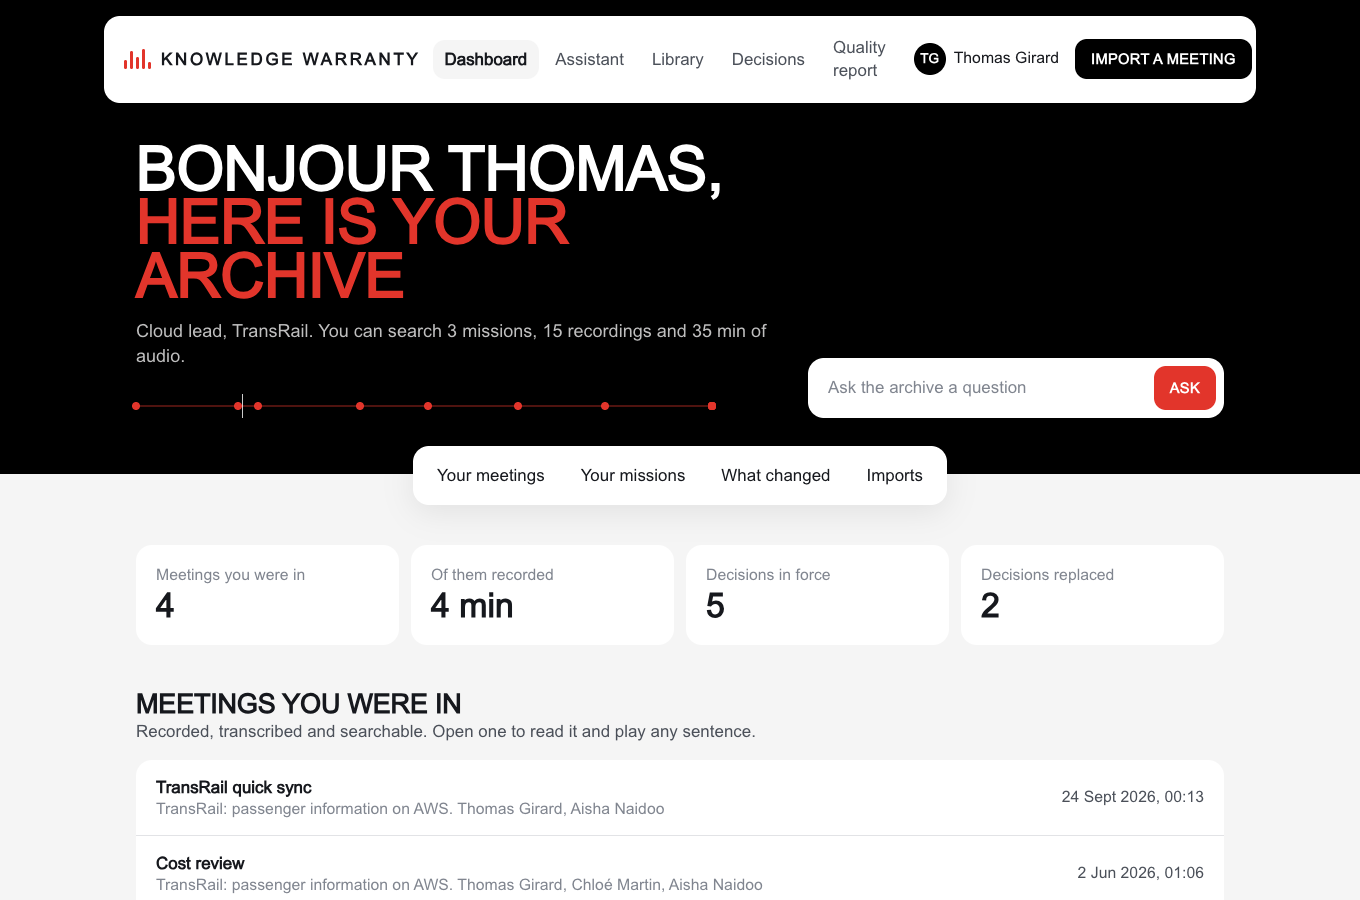
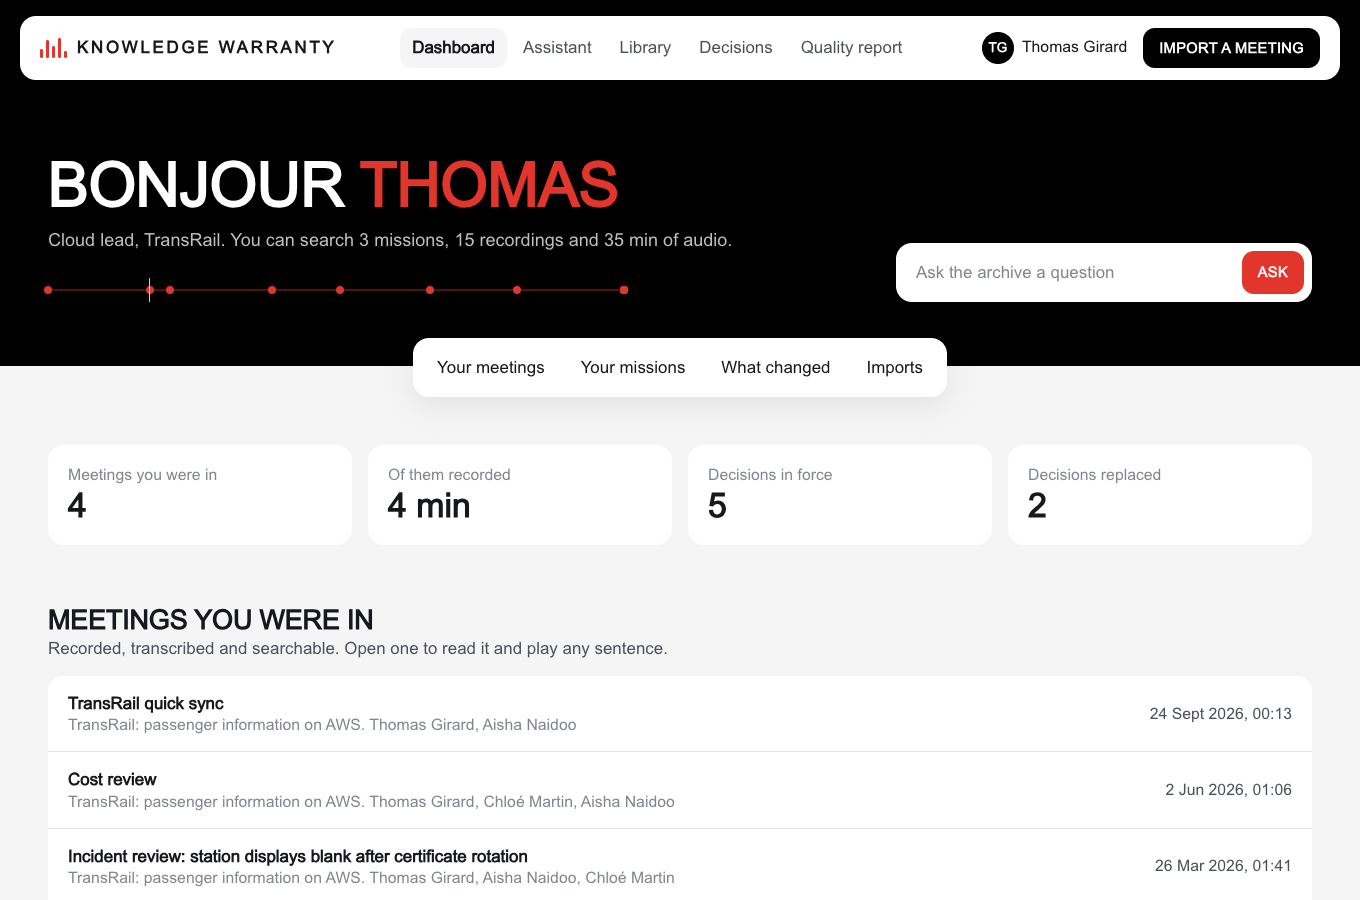
Wider, calmer layout and plainer copy
- Pages and navbar go up to 1440 px with larger side padding; forms at
  6xl, the assistant and transcripts at 5xl for reading.
- More space between dashboard sections; missions in 3 columns on wide
  screens; 'Quality report' no longer wraps in the navbar.
- Shorter intros on Assistant, Decisions and Quality report; the
  dashboard greets 'Bonjour Thomas'.

diff --git a/platform/app/page.tsx b/platform/app/page.tsx
@@ -59,8 +59,8 @@ export default async function DashboardPage() {
 
   return (
     <Page
-      title={`Bonjour ${firstName},`}
-      accent="here is your archive"
+      title="Bonjour"
+      accent={firstName}
       intro={
         <>
           <p>
@@ -84,7 +84,7 @@ export default async function DashboardPage() {
         />
       }
     >
-      <dl className="grid gap-3 sm:grid-cols-4">
+      <dl className="grid gap-4 sm:grid-cols-4">
         {[
           ["Meetings you were in", String(attended.length)],
           ["Of them recorded", formatDuration(attendedSeconds)],
@@ -98,7 +98,7 @@ export default async function DashboardPage() {
         ))}
       </dl>
 
-      <section id="attended" className="mt-12 scroll-mt-28">
+      <section id="attended" className="mt-16 scroll-mt-28">
         <h2 className="display text-2xl">Meetings you were in</h2>
         <p className="mt-1 text-ink-soft">Recorded, transcribed and searchable. Open one to read it and play any sentence.</p>
         {attended.length > 0 ? (
@@ -120,9 +120,9 @@ export default async function DashboardPage() {
         )}
       </section>
 
-      <section id="missions" className="mt-12 scroll-mt-28">
+      <section id="missions" className="mt-16 scroll-mt-28">
         <h2 className="display text-2xl">Your missions</h2>
-        <ul className="mt-4 grid gap-3 md:grid-cols-2">
+        <ul className="mt-5 grid gap-4 md:grid-cols-2 xl:grid-cols-3">
           {missions.map((m) => {
             const recs = mine.filter((r) => r.mission === m.id).sort((a, b) => b.date.localeCompare(a.date));
             return (
@@ -146,13 +146,13 @@ export default async function DashboardPage() {
         </ul>
       </section>
 
-      <section id="changes" className="mt-12 scroll-mt-28">
+      <section id="changes" className="mt-16 scroll-mt-28">
         <h2 className="display text-2xl">What changed</h2>
         <p className="mt-1 text-ink-soft">Decisions a later meeting replaced, in your missions. The old answer is kept as history.</p>
         {changes.length === 0 ? (
           <p className="mt-4 rounded-2xl bg-surface p-5 text-ink-soft">No decision has been replaced in your missions.</p>
         ) : (
-          <ul className="mt-4 grid gap-3 md:grid-cols-2">
+          <ul className="mt-5 grid gap-4 md:grid-cols-2">
             {changes.map((d) => {
               const old = byId.get(d.supersedes[0]);
               return (
@@ -175,7 +175,7 @@ export default async function DashboardPage() {
         )}
       </section>
 
-      <section id="imports" className="mt-12 scroll-mt-28">
+      <section id="imports" className="mt-16 scroll-mt-28">
         <div className="flex flex-wrap items-baseline justify-between gap-2">
           <h2 className="display text-2xl">Imports</h2>
           <Link href="/import" className="text-sm font-semibold underline underline-offset-4">

diff --git a/platform/components/Page.tsx b/platform/components/Page.tsx
@@ -9,7 +9,7 @@ export function Page({
   aside,
   overlap,
   children,
-  width = "max-w-6xl",
+  width = "max-w-[1440px]",
 }: {
   title: string;
   accent?: string;
@@ -21,10 +21,10 @@ export function Page({
 }) {
   return (
     <>
-      <section className="bg-night pb-14 pt-32 text-white sm:pt-36">
-        <div className={`mx-auto ${width} px-5 sm:px-8`}>
+      <section className="bg-night pb-16 pt-32 text-white sm:pt-40">
+        <div className={`mx-auto ${width} px-5 sm:px-8 lg:px-12`}>
           <div className="flex flex-col gap-8 lg:flex-row lg:items-end lg:justify-between">
-            <div className="max-w-3xl">
+            <div className="max-w-4xl">
               <h1 className="display text-[2.4rem] sm:text-[3.4rem]">
                 {title}
                 {accent && (
@@ -34,18 +34,18 @@ export function Page({
                   </>
                 )}
               </h1>
-              {intro && <div className="mt-4 max-w-2xl text-[16px] text-white/75">{intro}</div>}
+              {intro && <div className="mt-4 max-w-3xl text-[16px] text-white/75">{intro}</div>}
             </div>
             {aside && <div className="shrink-0">{aside}</div>}
           </div>
         </div>
       </section>
       {overlap && (
-        <div className={`relative z-10 mx-auto -mt-7 ${width} px-5 sm:px-8`}>
+        <div className={`relative z-10 mx-auto -mt-7 ${width} px-5 sm:px-8 lg:px-12`}>
           {overlap}
         </div>
       )}
-      <div className={`mx-auto ${width} px-5 pb-20 pt-10 sm:px-8`}>{children}</div>
+      <div className={`mx-auto ${width} px-5 pb-24 pt-12 sm:px-8 lg:px-12`}>{children}</div>
     </>
   );
 }

diff --git a/platform/components/SiteNav.tsx b/platform/components/SiteNav.tsx
@@ -37,7 +37,7 @@ export function SiteNav({ name, email }: { name: string; email: string }) {
 
   return (
     <header className="fixed inset-x-0 top-0 z-40 px-3 pt-3 sm:px-5 sm:pt-4">
-      <div className="mx-auto flex max-w-6xl items-center gap-3 rounded-2xl bg-surface px-4 py-3 shadow-[0_8px_30px_rgba(0,0,0,0.12)] sm:px-5">
+      <div className="mx-auto flex max-w-[1440px] items-center gap-3 rounded-2xl bg-surface px-4 py-3 shadow-[0_8px_30px_rgba(0,0,0,0.12)] sm:px-5">
         <Link href="/" className="shrink-0">
           <Logo />
         </Link>
@@ -47,7 +47,7 @@ export function SiteNav({ name, email }: { name: string; email: string }) {
               key={l.href}
               href={l.href}
               aria-current={active(l.href) ? "page" : undefined}
-              className={`rounded-xl px-3 py-2 text-[15px] ${active(l.href) ? "bg-paper font-semibold text-ink" : "text-ink-soft hover:text-ink"}`}
+              className={`whitespace-nowrap rounded-xl px-3 py-2 text-[15px] ${active(l.href) ? "bg-paper font-semibold text-ink" : "text-ink-soft hover:text-ink"}`}
             >
               {l.label}
             </Link>

diff --git a/platform/app/decisions/page.tsx b/platform/app/decisions/page.tsx
@@ -22,7 +22,7 @@ export default async function DecisionsPage() {
   );
 
   return (
-    <Page title="Decision" accent="register" width="max-w-4xl" intro={<>Decisions found in the recordings, per mission. When a later meeting explicitly changed a decision, the new one is current and the old one stays here as history. A later meeting that only repeats a decision confirms it; it does not replace it.</>}>
+    <Page title="Decision" accent="register" width="max-w-6xl" intro={<>Decisions found in the recordings, per mission. When a later meeting changes a decision, the new one is current and the old one stays as history. A meeting that only repeats a decision confirms it.</>}>
       <p className="mt-2 text-sm text-ink-faint">
         Found automatically with language cues in English and French and meaning similarity. Each entry links to the moment it was said, so anyone can check it.
       </p>

diff --git a/platform/app/settings/page.tsx b/platform/app/settings/page.tsx
@@ -8,7 +8,7 @@ export default function SettingsPage() {
   const field = "mt-1 w-full rounded-md border border-line bg-surface px-3 py-2";
 
   return (
-    <Page title="Settings" width="max-w-4xl" intro={<>Choose who writes the answers. Without a model, answers are exact quotes from the recordings, which cannot invent anything. With a model, answers read more naturally and every sentence is still checked against its source.</>}>
+    <Page title="Settings" width="max-w-6xl" intro={<>Choose who writes the answers. Without a model, answers are exact quotes from the recordings, which cannot invent anything. With a model, answers read more naturally and every sentence is still checked against its source.</>}>
 
       <form action={saveModelSettings} className="mt-8 space-y-6 rounded-xl border border-line bg-surface p-5">
         <fieldset>

diff --git a/platform/app/review/page.tsx b/platform/app/review/page.tsx
@@ -40,7 +40,7 @@ export default async function ReviewPage() {
     .filter((x) => x.reasons.length > 0);
 
   return (
-    <Page title="Transcript" accent="review" width="max-w-4xl" intro={<>Sentences worth a human look. Listen, correct the text, save. Corrections are used the next time the index is built (<code>npm run index</code>), and the audio always stays the reference.</>}>
+    <Page title="Transcript" accent="review" width="max-w-6xl" intro={<>Sentences worth a human look. Listen, correct the text, save. Corrections are used the next time the index is built (<code>npm run index</code>), and the audio always stays the reference.</>}>
       <p className="mt-2 text-sm text-ink-faint">{queue.length} sentences to review in your missions, {corrections.length} corrections saved.</p>
 
       <ul className="mt-6 space-y-4">

diff --git a/platform/app/evaluation/page.tsx b/platform/app/evaluation/page.tsx
@@ -196,7 +196,7 @@ export default function EvaluationPage() {
   const demoExpected = expected.get(DEMO_FAILURE.id);
 
   return (
-    <Page title="Quality" accent="report" width="max-w-5xl" intro={<>The 50 test questions from our reverse brief, written before tuning, scored pass or fail. Failures are listed with the reason. Thresholds were set on half of the questions only; the other half shows how the system does on questions it was not tuned on.</>}>
+    <Page title="Quality" accent="report" intro={<>50 test questions from our reverse brief, written before any tuning. Thresholds were set on half of them; the other half shows how the system does on questions it never saw.</>}>
 
       <div className="mt-8 grid gap-4 lg:grid-cols-2">
         <Scorecard r={quote} title="Quote mode (no language model)" />

diff --git a/platform/app/value/page.tsx b/platform/app/value/page.tsx
@@ -9,7 +9,7 @@ export default function ValuePage() {
   const rtf = report?.asr.realtimeFactor ?? 10;
 
   return (
-    <Page title="Value and" accent="cost" width="max-w-5xl" intro={<>The business case from our reverse brief, as a calculator. One hour of Synchrone is valued at revenue divided by staff and by the French reference of 1,607 hours a year: €139M / 1,500 / 1,607 = €57.7. It is not a salary, only a way to price an hour.</>}>
+    <Page title="Value and" accent="cost" intro={<>The business case from our reverse brief, as a calculator. One hour of Synchrone is valued at revenue divided by staff and by the French reference of 1,607 hours a year: €139M / 1,500 / 1,607 = €57.7. It is not a salary, only a way to price an hour.</>}>
       <ValueCalculator />
 
       <section className="mt-12">

diff --git a/platform/app/digest/page.tsx b/platform/app/digest/page.tsx
@@ -27,7 +27,7 @@ export default async function DigestPage({ searchParams }: { searchParams: Promi
     .filter((x) => x.list.length > 0);
 
   return (
-    <Page title="Decision" accent="digest" width="max-w-4xl" intro={<>What was decided in your missions, and what it replaced. Ready to paste into a team email.</>}>
+    <Page title="Decision" accent="digest" width="max-w-6xl" intro={<>What was decided in your missions, and what it replaced. Ready to paste into a team email.</>}>
       <div className="mt-4 flex gap-2">
         {PERIODS.map((p) => (
           <Link key={p} href={`/digest?days=${p}`} aria-current={p === days ? "page" : undefined} className={`rounded-md border px-3 py-1.5 text-sm ${p === days ? "border-ink" : "border-line text-ink-soft"}`}>

diff --git a/platform/app/experts/page.tsx b/platform/app/experts/page.tsx
@@ -30,7 +30,7 @@ export default async function ExpertsPage() {
   const leaving = people.filter((x) => x.daysLeft !== null && x.daysLeft >= 0 && x.daysLeft <= 90);
 
   return (
-    <Page title="Who knows" accent="what" width="max-w-5xl" intro={<>People and the recorded meetings they took part in, within the missions you can see. It tells you who to call, and which knowledge sits with one person only.</>}>
+    <Page title="Who knows" accent="what" intro={<>People and the recorded meetings they took part in, within the missions you can see. It tells you who to call, and which knowledge sits with one person only.</>}>
 
       {leaving.length > 0 && (
         <section className="mt-8 rounded-xl border border-history bg-history-bg p-5">

diff --git a/platform/app/assistant/page.tsx b/platform/app/assistant/page.tsx
@@ -34,8 +34,8 @@ export default async function AssistantPage({ searchParams }: { searchParams: Pr
     <Page
       title="Ask the"
       accent="archive"
-      intro="Plain words, English or French. Every answer shows the meeting and the minute behind it, says when a later meeting changed it, and says so when the recordings do not know."
-      width="max-w-4xl"
+      intro="Ask in English or French. Each answer gives the meeting and the minute, flags a decision a later meeting changed, and says when the recordings have no answer."
+      width="max-w-5xl"
     >
       <AssistantChat key={user.email} suggestions={suggestions} durations={durations} initialQuestion={q} />
     </Page>

diff --git a/platform/app/library/page.tsx b/platform/app/library/page.tsx
@@ -10,7 +10,7 @@ export default async function LibraryPage() {
   const missions = getCatalog().missions.filter((m) => user.missions.includes(m.id));
 
   return (
-    <Page title="The" accent="library" width="max-w-5xl" intro={<>Every recording is filed under its mission, with its date and participants. You see the missions you belong to.</>}>
+    <Page title="The" accent="library" intro={<>Every recording is filed under its mission, with its date and participants. You see the missions you belong to.</>}>
 
       <div className="mt-8 space-y-10">
         {missions.map((m) => {
